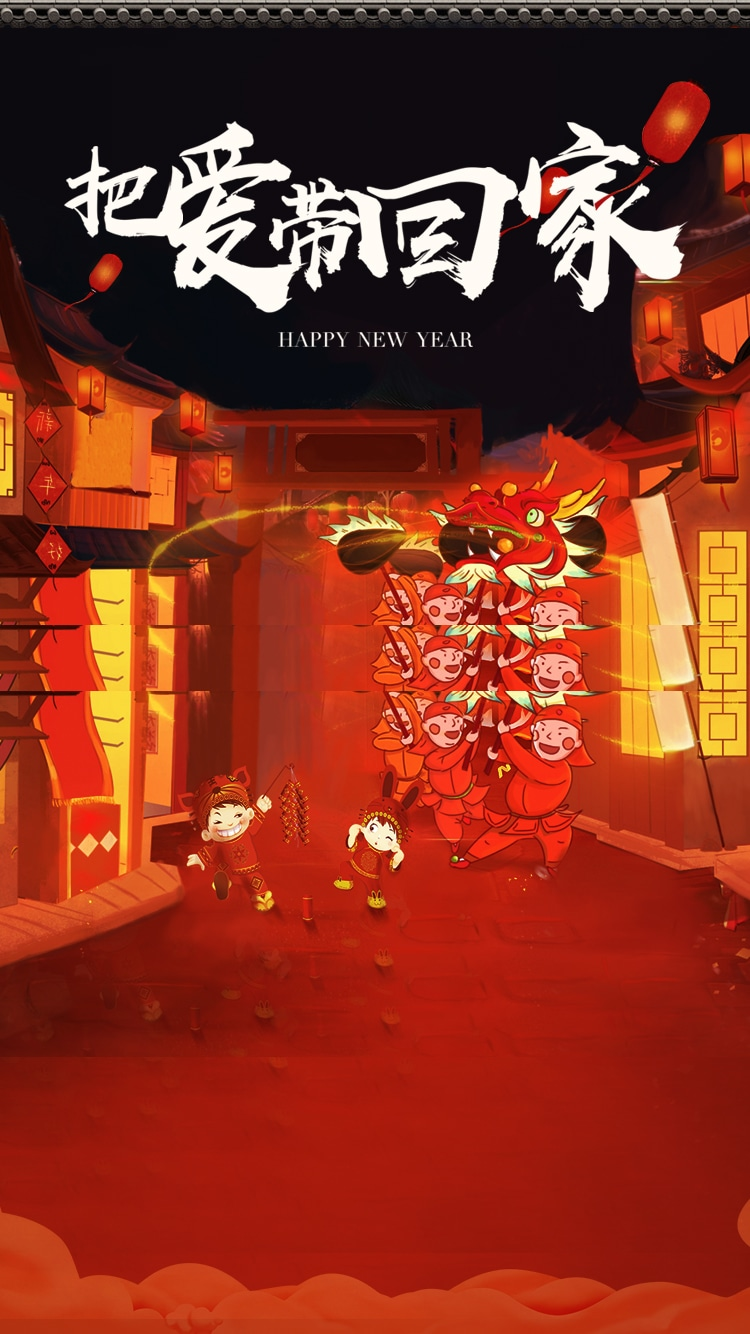
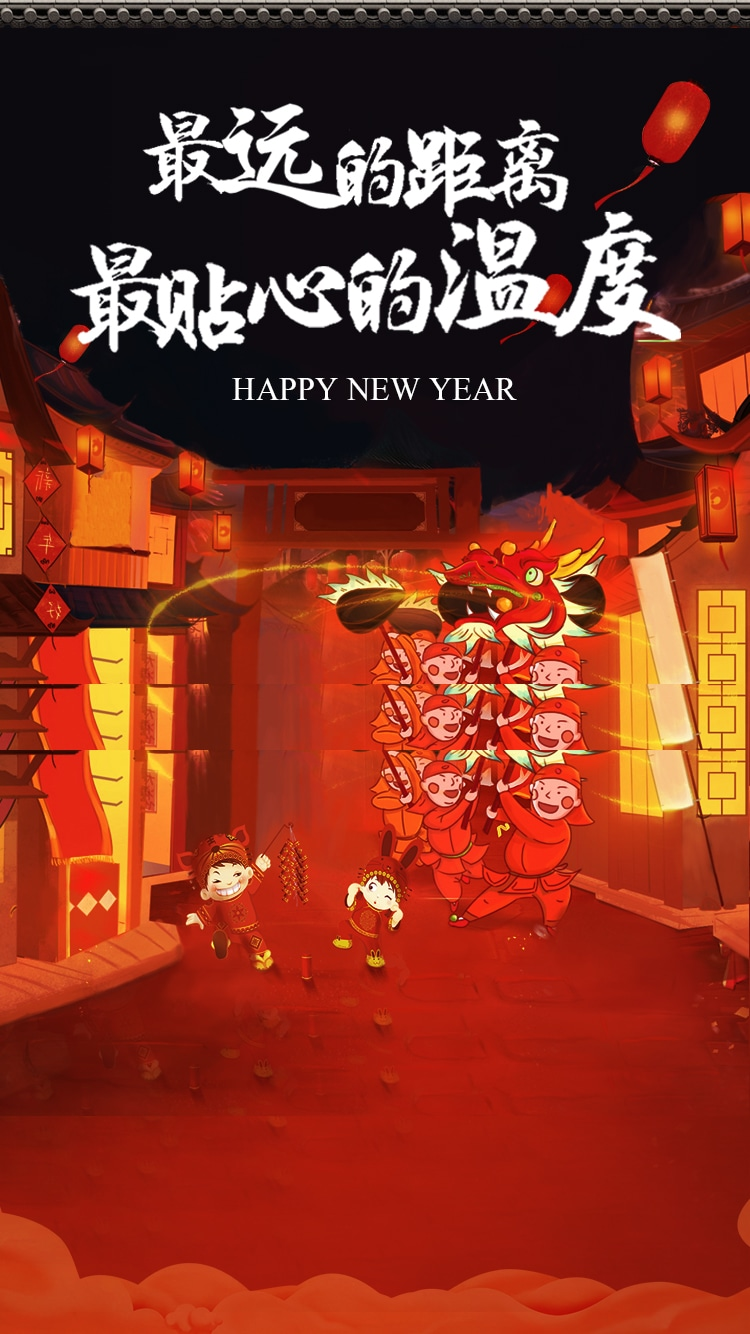
share

diff --git a/index.html b/index.html
@@ -2,7 +2,7 @@
 <html lang="en">
 <head>
     <meta charset="UTF-8" viewport="cover">
-    <title>把爱带回家</title>
+    <title>最远的距离 最贴心的温度</title>
     <link rel="icon" href="图片位置" type="image/x-icon"/>
     <style>
         *{
@@ -61,9 +61,12 @@
     </style>
 </head>
 <body>
+<div style='position:relative;left:-999px'>
+    <img src="images/share_small.jpg">
+</div>
 <div class="main">
     <div class="tip">
-        <img src="images/jd_share_tip.png">
+        <img style="width: 620px" src="images/jd_share_tip.png">
     </div>
     <!--<div class="jd-logo">-->
         <!--<img src="images/jd_logo.png" alt="">-->
@@ -94,7 +97,8 @@
 
         $(".btn-movie").click(function () {
             $(".tip").toggle();
-        })
+        });
+
         $(".tip").click(function () {
             $(this).hide();
         })
